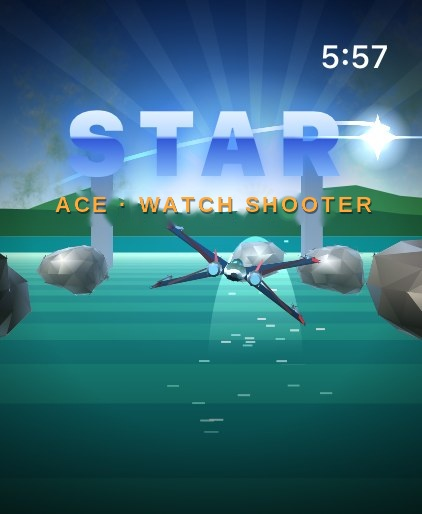
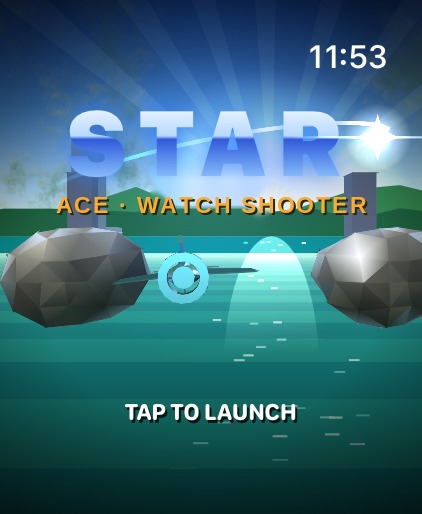
Replace X-wing-like ship art with original Aurora Manta; add AI-art transparency note
Claude-Session: https://claude.ai/code/session_019rdU8AXbfQRvvX8hroasyw

diff --git a/ja/index.html b/ja/index.html
@@ -77,7 +77,7 @@ addEventListener('message',e=>{if(e.data==='aria-intro-done'){const f=document.g
  <h3>手首でプレイ。</h3><p>Kart Watch GPとStar Ace : Watch Shooterは、まもなくApp Storeに登場します。</p><a class="btn" href="/ja/support.html">最新情報とサポート</a>
 </div></section>
 
-<footer><div class="wrap"><span>© 2026 ARIAgames · チリ発のインディーゲーム</span><span><a href="/ja/privacy.html">プライバシー</a><a href="/ja/support.html">サポート</a></span></div></footer>
+<footer><div class="wrap"><span>© 2026 ARIAgames · チリ発のインディーゲーム<br><small class="aid">デザイン・開発：Julio Aris。アートはAIツールで作成し、作者が監修しています。</small></span><span><a href="/ja/privacy.html">プライバシー</a><a href="/ja/support.html">サポート</a></span></div></footer>
 
 <script>
 const $=s=>document.querySelector(s),$$=s=>[...document.querySelectorAll(s)];

diff --git a/fr/index.html b/fr/index.html
@@ -77,7 +77,7 @@ addEventListener('message',e=>{if(e.data==='aria-intro-done'){const f=document.g
  <h3>Jouez à votre poignet.</h3><p>Kart Watch GP et Star Ace : Watch Shooter arrivent bientôt sur l’App Store.</p><a class="btn" href="/fr/support.html">Actualités &amp; assistance</a>
 </div></section>
 
-<footer><div class="wrap"><span>© 2026 ARIAgames · Jeux indépendants créés au Chili</span><span><a href="/fr/privacy.html">Confidentialité</a><a href="/fr/support.html">Assistance</a></span></div></footer>
+<footer><div class="wrap"><span>© 2026 ARIAgames · Jeux indépendants créés au Chili<br><small class="aid">Conçu et développé par Julio Aris. Illustrations créées avec des outils d’IA, dirigées par l’auteur.</small></span><span><a href="/fr/privacy.html">Confidentialité</a><a href="/fr/support.html">Assistance</a></span></div></footer>
 
 <script>
 const $=s=>document.querySelector(s),$$=s=>[...document.querySelectorAll(s)];

diff --git a/es/index.html b/es/index.html
@@ -77,7 +77,7 @@ addEventListener('message',e=>{if(e.data==='aria-intro-done'){const f=document.g
  <h3>Juega en tu muñeca.</h3><p>Kart Watch GP y Star Ace : Watch Shooter llegan pronto a la App Store.</p><a class="btn" href="/es/support.html">Novedades y soporte</a>
 </div></section>
 
-<footer><div class="wrap"><span>© 2026 ARIAgames · Juegos independientes hechos en Chile</span><span><a href="/es/privacy.html">Privacidad</a><a href="/es/support.html">Soporte</a></span></div></footer>
+<footer><div class="wrap"><span>© 2026 ARIAgames · Juegos independientes hechos en Chile<br><small class="aid">Diseñado y desarrollado por Julio Aris. Arte creado con herramientas de IA, dirigido por el autor.</small></span><span><a href="/es/privacy.html">Privacidad</a><a href="/es/support.html">Soporte</a></span></div></footer>
 
 <script>
 const $=s=>document.querySelector(s),$$=s=>[...document.querySelectorAll(s)];

diff --git a/pt/index.html b/pt/index.html
@@ -77,7 +77,7 @@ addEventListener('message',e=>{if(e.data==='aria-intro-done'){const f=document.g
  <h3>Jogue no seu pulso.</h3><p>Kart Watch GP e Star Ace : Watch Shooter chegam em breve à App Store.</p><a class="btn" href="/pt/support.html">Novidades e suporte</a>
 </div></section>
 
-<footer><div class="wrap"><span>© 2026 ARIAgames · Jogos independentes feitos no Chile</span><span><a href="/pt/privacy.html">Privacidade</a><a href="/pt/support.html">Suporte</a></span></div></footer>
+<footer><div class="wrap"><span>© 2026 ARIAgames · Jogos independentes feitos no Chile<br><small class="aid">Projetado e desenvolvido por Julio Aris. Arte criada com ferramentas de IA, dirigida pelo autor.</small></span><span><a href="/pt/privacy.html">Privacidade</a><a href="/pt/support.html">Suporte</a></span></div></footer>
 
 <script>
 const $=s=>document.querySelector(s),$$=s=>[...document.querySelectorAll(s)];

diff --git a/de/index.html b/de/index.html
@@ -77,7 +77,7 @@ addEventListener('message',e=>{if(e.data==='aria-intro-done'){const f=document.g
  <h3>Spiele am Handgelenk.</h3><p>Kart Watch GP und Star Ace : Watch Shooter erscheinen bald im App Store.</p><a class="btn" href="/de/support.html">Updates &amp; Support</a>
 </div></section>
 
-<footer><div class="wrap"><span>© 2026 ARIAgames · Unabhängige Spiele aus Chile</span><span><a href="/de/privacy.html">Datenschutz</a><a href="/de/support.html">Support</a></span></div></footer>
+<footer><div class="wrap"><span>© 2026 ARIAgames · Unabhängige Spiele aus Chile<br><small class="aid">Entworfen und entwickelt von Julio Aris. Kunst mit KI-Werkzeugen erstellt, vom Autor gesteuert.</small></span><span><a href="/de/privacy.html">Datenschutz</a><a href="/de/support.html">Support</a></span></div></footer>
 
 <script>
 const $=s=>document.querySelector(s),$$=s=>[...document.querySelectorAll(s)];

diff --git a/index.html b/index.html
@@ -77,7 +77,7 @@ addEventListener('message',e=>{if(e.data==='aria-intro-done'){const f=document.g
  <h3>Play on your wrist.</h3><p>Kart Watch GP and Star Ace : Watch Shooter are coming to the App Store.</p><a class="btn" href="support.html">Get updates &amp; support</a>
 </div></section>
 
-<footer><div class="wrap"><span>© 2026 ARIAgames · Independent games made in Chile</span><span><a href="privacy.html">Privacy</a><a href="support.html">Support</a></span></div></footer>
+<footer><div class="wrap"><span>© 2026 ARIAgames · Independent games made in Chile<br><small class="aid">Designed and developed by Julio Aris. Art created with AI tools, directed by the author.</small></span><span><a href="privacy.html">Privacy</a><a href="support.html">Support</a></span></div></footer>
 
 <script>
 const $=s=>document.querySelector(s),$$=s=>[...document.querySelectorAll(s)];

diff --git a/index.src.html b/index.src.html
@@ -77,7 +77,7 @@ addEventListener('message',e=>{if(e.data==='aria-intro-done'){const f=document.g
  <h3>Play on your wrist.</h3><p>Kart Watch GP and Star Ace : Watch Shooter are coming to the App Store.</p><a class="btn" href="support.html">Get updates &amp; support</a>
 </div></section>
 
-<footer><div class="wrap"><span>© 2026 ARIAgames · Independent games made in Chile</span><span><a href="privacy.html">Privacy</a><a href="support.html">Support</a></span></div></footer>
+<footer><div class="wrap"><span>© 2026 ARIAgames · Independent games made in Chile<br><small class="aid">AIDISC</small></span><span><a href="privacy.html">Privacy</a><a href="support.html">Support</a></span></div></footer>
 
 <script>
 const $=s=>document.querySelector(s),$$=s=>[...document.querySelectorAll(s)];

diff --git a/style.css b/style.css
@@ -134,3 +134,5 @@ body>*:not(#bgw):not(script):not(header){position:relative;z-index:1}
 .langs{position:fixed;left:14px;bottom:14px;z-index:60;font:600 12px/1 -apple-system,Inter,sans-serif;padding:9px 13px;border-radius:999px;background:rgba(255,255,255,.72);backdrop-filter:blur(14px);-webkit-backdrop-filter:blur(14px);box-shadow:0 2px 14px rgba(0,0,0,.12);color:#0a0a0a;max-width:calc(100vw - 100px);overflow-x:auto;white-space:nowrap}.langs a{color:#6b6762;text-decoration:none}.langs a:hover{color:#e50914}.langs b{color:#e50914}
 
 .req{margin:14px 0 0;font:600 12.5px/1.4 -apple-system,Inter,sans-serif;color:#6b6762;letter-spacing:.01em}
+
+footer .aid{display:block;margin-top:6px;opacity:.65;font-size:12px}

diff --git a/content/launch_plan.md b/content/launch_plan.md
@@ -1,0 +1,59 @@
+# ARIAgames — Plan de lanzamiento (App Store → Reddit, TikTok, YouTube, X)
+Objetivo: 1M+ descargas orgánicas, sin gasto. Público: jóvenes 13-24 y familias con niños (los padres compran).
+Juegos: Kart Watch GP + Star Ace : Watch Shooter, solo Apple Watch (Series 10+), USD 1.99, sin anuncios/cuentas/tracking.
+Gancho de marca: "Un héroe, dos juegos, una muñeca" (Cosmo, nutria #7).
+
+## 0. Reglas de seguridad (niños)
+- TikTok/Instagram/Reddit exigen 13+. Hablar a jóvenes 13+ y a PADRES; nunca pedir datos a menores.
+- Mensaje para padres: "sin anuncios, sin cuentas, sin compras dentro, sin tracking". Es nuestro mejor argumento.
+- Sin giveaways que pidan datos personales; sin "compra ya" dirigido a niños. Revisar categoría de edad en App Store Connect.
+
+## 1. El problema del precio (USD 1.99 "no le pega a nadie")
+- Los niños no compran: compran los padres. Posicionar como "el juego del reloj que los padres aprueban": 1 pago, sin anuncios, sin trampas.
+- Reframe: "Menos que un café, para siempre. Cero anuncios."
+- Promo de lanzamiento (decisión de Julio): precio USD 0.99 o gratis 48 h en la semana 1 (App Store Connect → Precios). Genera ranking + reseñas; luego subir a 1.99. Ranking alto en "Juegos de Apple Watch" = descargas orgánicas.
+- Códigos promo de App Store Connect: repartir 50-100 a creadores pequeños a cambio de video honesto (no cuesta dinero).
+
+## 2. Pre-lanzamiento (ahora → fecha)
+- IG: 1 personaje/día + Cosmo. Bio y link ariagames.dev. Cuenta regresiva en Historias.
+- Crear cuentas: TikTok @ariagames, YouTube Shorts, X, Reddit u/ARIAgames (Julio crea y entra las claves; yo no ingreso contraseñas).
+- Lista de espera simple en ariagames.dev (solo email del PADRE, opcional).
+- Enviar apps a prensa/creadores pequeños: 9to5Mac, MacRumors, TouchArcade, creadores de Apple Watch (códigos promo).
+
+## 3. Día de lanzamiento (D-Day)
+- IG: reel Cosmo + carrusel "Now on the App Store" + Historia con link.
+- TikTok: 3 videos en el día (gameplay pov muñeca, Cosmo, "mi reloj es una consola").
+- Reddit (ver §4), X hilo, YouTube Short, Product Hunt (opcional), Hacker News "Show HN" para ángulo técnico solo-dev.
+- Pedir reseñas a primeros usuarios dentro de la semana (sin incentivos).
+
+## 4. Reddit (reglas: no spam, aportar valor, leer reglas de cada sub; 1 post por sub)
+- r/AppleWatch, r/apple (tema "Showcase"), r/iosgaming, r/WatchOS, r/indiegaming, r/IndieDev (post de desarrollo: "Hice un juego para pantalla de 1.9 pulgadas, así lo hice"), r/gamedev (Feedback Friday / Screenshot Saturday), r/SideProject, r/MadeWithSwift/r/swift, r/KartRacing-like subs.
+- Formato: título honesto + gif/video + "AMA: hice esto solo". Responder TODOS los comentarios en 2 h.
+- Regla 9:1: por cada post propio, 9 comentarios útiles en otros hilos.
+
+## 5. TikTok / Shorts / Reels (plantillas, 7-15 s, subtítulos en inglés)
+1. "POV: tu reloj es una consola" (muñeca + gameplay Star Ace)
+2. "Elige a tu piloto" (Cosmo + otros personajes)
+3. "¿Puedes vencer al jefe 3?" (desafío, comentar tiempo)
+4. "Cómo hice un juego para un reloj" (detrás de cámara, solo-dev)
+5. Duelo Kart: drift + podio.
+- Sonidos: música original del juego (sin derechos de terceros). Publicar 2-3 por día en la semana de lanzamiento.
+- Hashtags: #applewatch #watchos #gaming #indiegame #mobilegaming #cozygames.
+- Colaboraciones: creadores 5k-100k de Apple Watch/tecnología (códigos promo, sin pago).
+
+## 6. Calendario semana 1
+- D-3: teaser Cosmo + cuenta regresiva. D-1: reel "mañana". D0: lanzamiento (todo lo del §3).
+- D+1: Reddit r/AppleWatch + r/iosgaming. D+2: r/IndieDev + Show HN. D+3: TikTok desafío jefe 3.
+- D+4: personaje del día. D+5: video de gameplay largo YouTube. D+6: recopilar feedback/reseñas. D+7: métricas y ajustar.
+
+## 7. Métricas (revisar cada lunes)
+Descargas (App Store Connect), visitas ariagames.dev, seguidores IG/TikTok, vistas por video, reseñas/valoración, ranking en Juegos Watch.
+Meta intermedia: 10k descargas mes 1 → 100k mes 3 → 1M año 1.
+
+## 8. Decisiones pendientes de Julio
+1) Promo de precio de lanzamiento (0.99 o gratis 48 h). 2) Fecha de lanzamiento. 3) Crear cuentas TikTok/Reddit/YouTube/X (yo preparo todo el contenido). 4) Clasificación de edad en App Store.
+
+## 9. IP / IA (actualizado 2026-10-11)
+- Nave rediseñada (Aurora Manta, original): marketing en ig/v4; en el juego Sources/Hero.swift (respaldo: Hero.swift.xfoil.bak). Falta nuevo build/archive y subir a App Store (decide Julio).
+- IG: nuevas publicaciones con etiqueta de IA + texto de transparencia. Reel antiguo de Star Ace (nave tipo X-wing): archivar/eliminar desde el movil.
+- Pendiente: busqueda de marcas (INAPI/USPTO/EUIPO) de Kart Watch GP, Star Ace, ARIAgames; revisar terminos comerciales de Gemini y licencias de voces/musica con un abogado.
